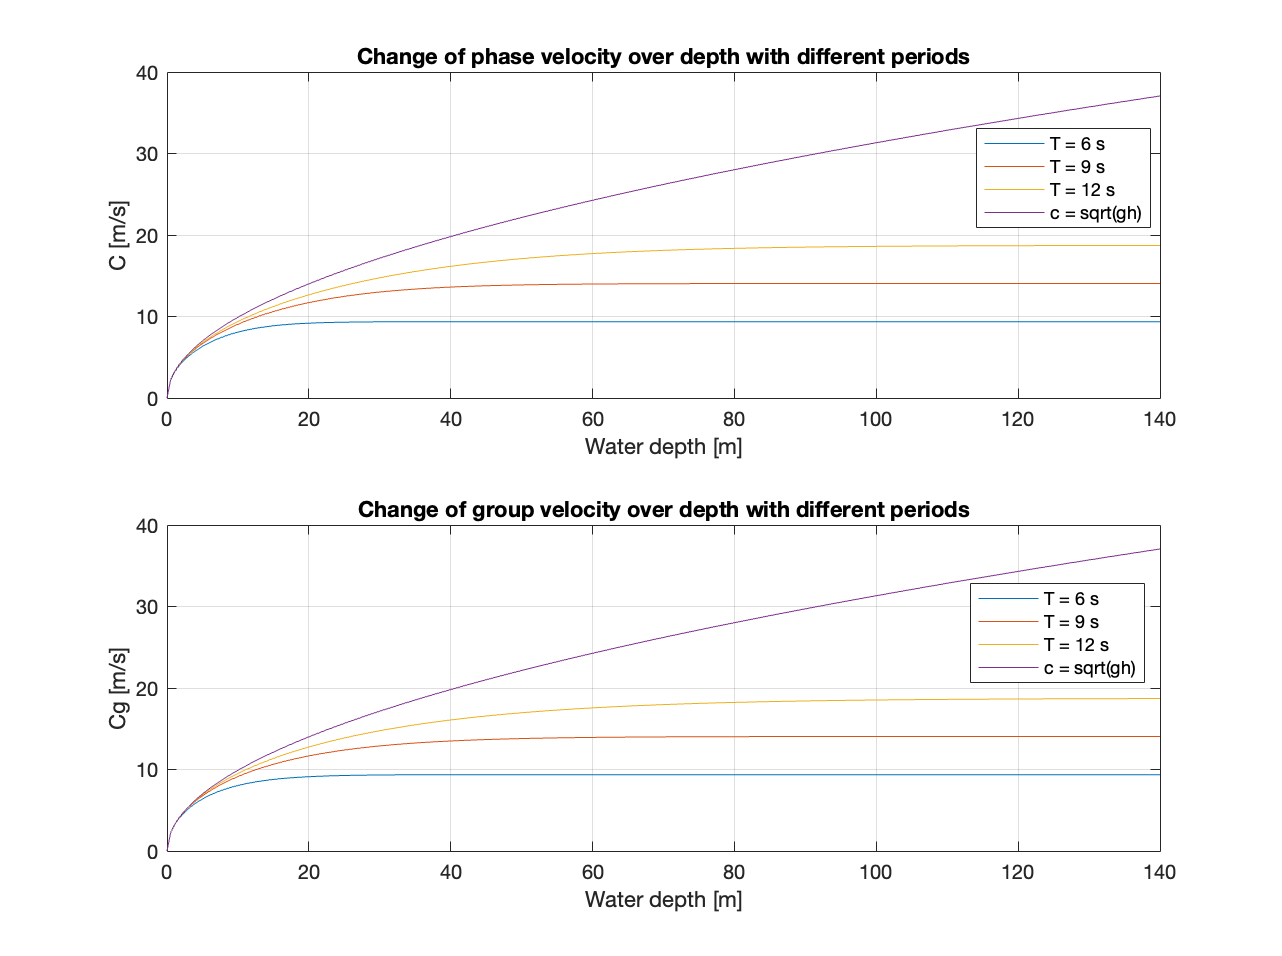
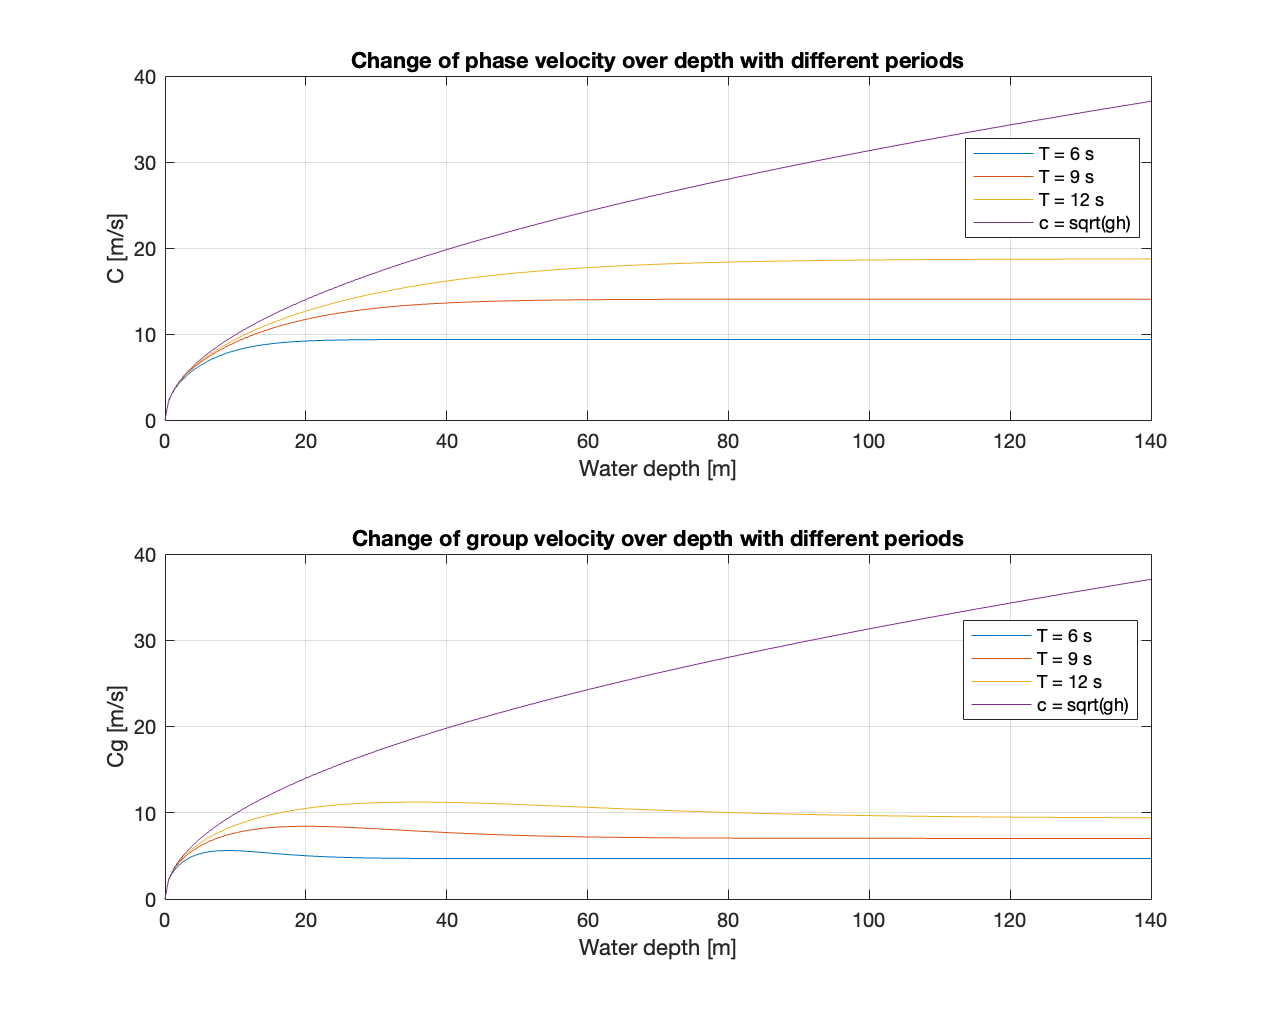
Updated code

diff --git a/Chapter3/Chapter3_Team7CassinoBeach/Chapter3_Team7.m b/Chapter3/Chapter3_Team7CassinoBeach/Chapter3_Team7.m
@@ -9,7 +9,7 @@ water_depth = [0:0.5:140]; %meters
 %Constants 
 
 g  = 9.81; %Gravity, m/sˆ2 
-omega = 2*pi./periods;
+%omega = 2*pi./periods;
 
 %We run a for loop for each one of the periods 
 for ii = 1:length(periods)
@@ -23,8 +23,10 @@ L{ii} = ((g*power(periods(ii),2))/(2*pi))*tanh(wavenumber{ii}.*water_depth);
 ratio_Lh{ii} = water_depth./L{ii};
 %phase velocity with our function 
 c{ii} = phase_velocity(L{ii},periods(ii)); 
+%Propagation factor with our function 
+prop_factor{ii} = propagation_factor(wavenumber{ii},water_depth); 
 %group velocity with our function  
-cg{ii} = group_velocity(omega(ii),wavenumber{ii}); 
+cg{ii} = group_velocity(c{ii},prop_factor{ii}); 
 end
 
 %Plot evolution of wavelength L as a function of depth 
